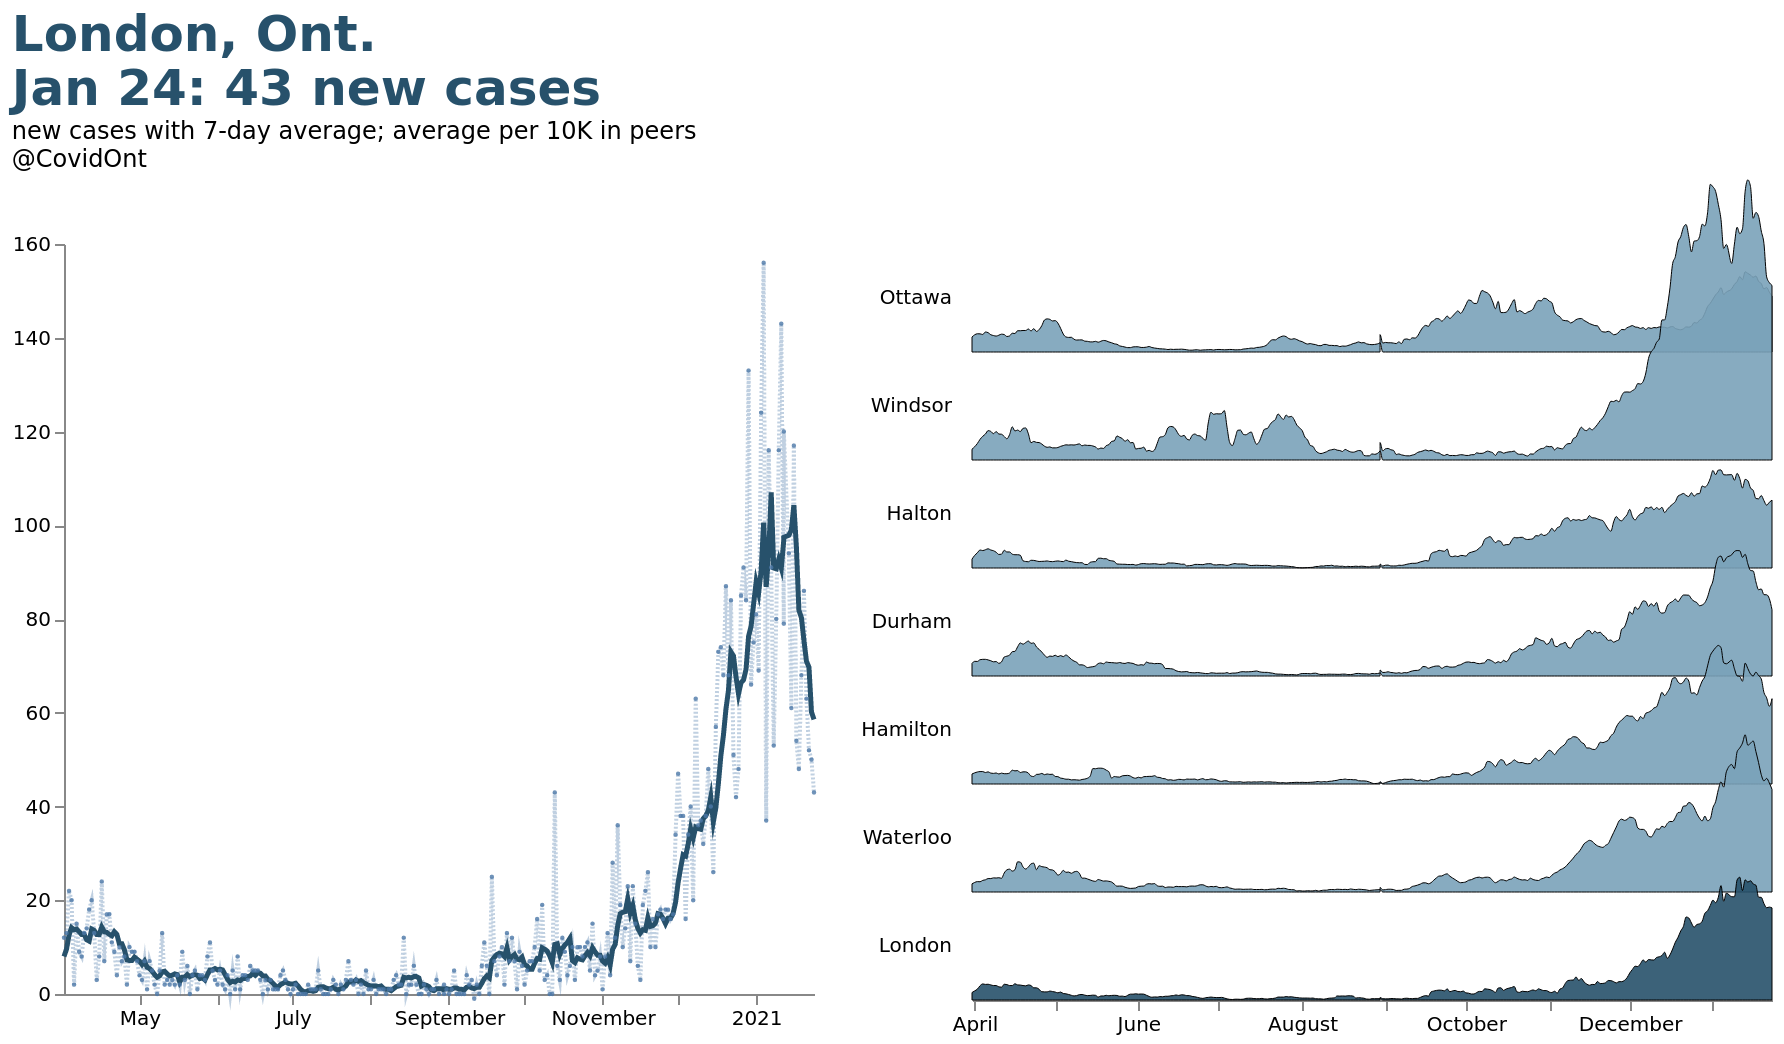
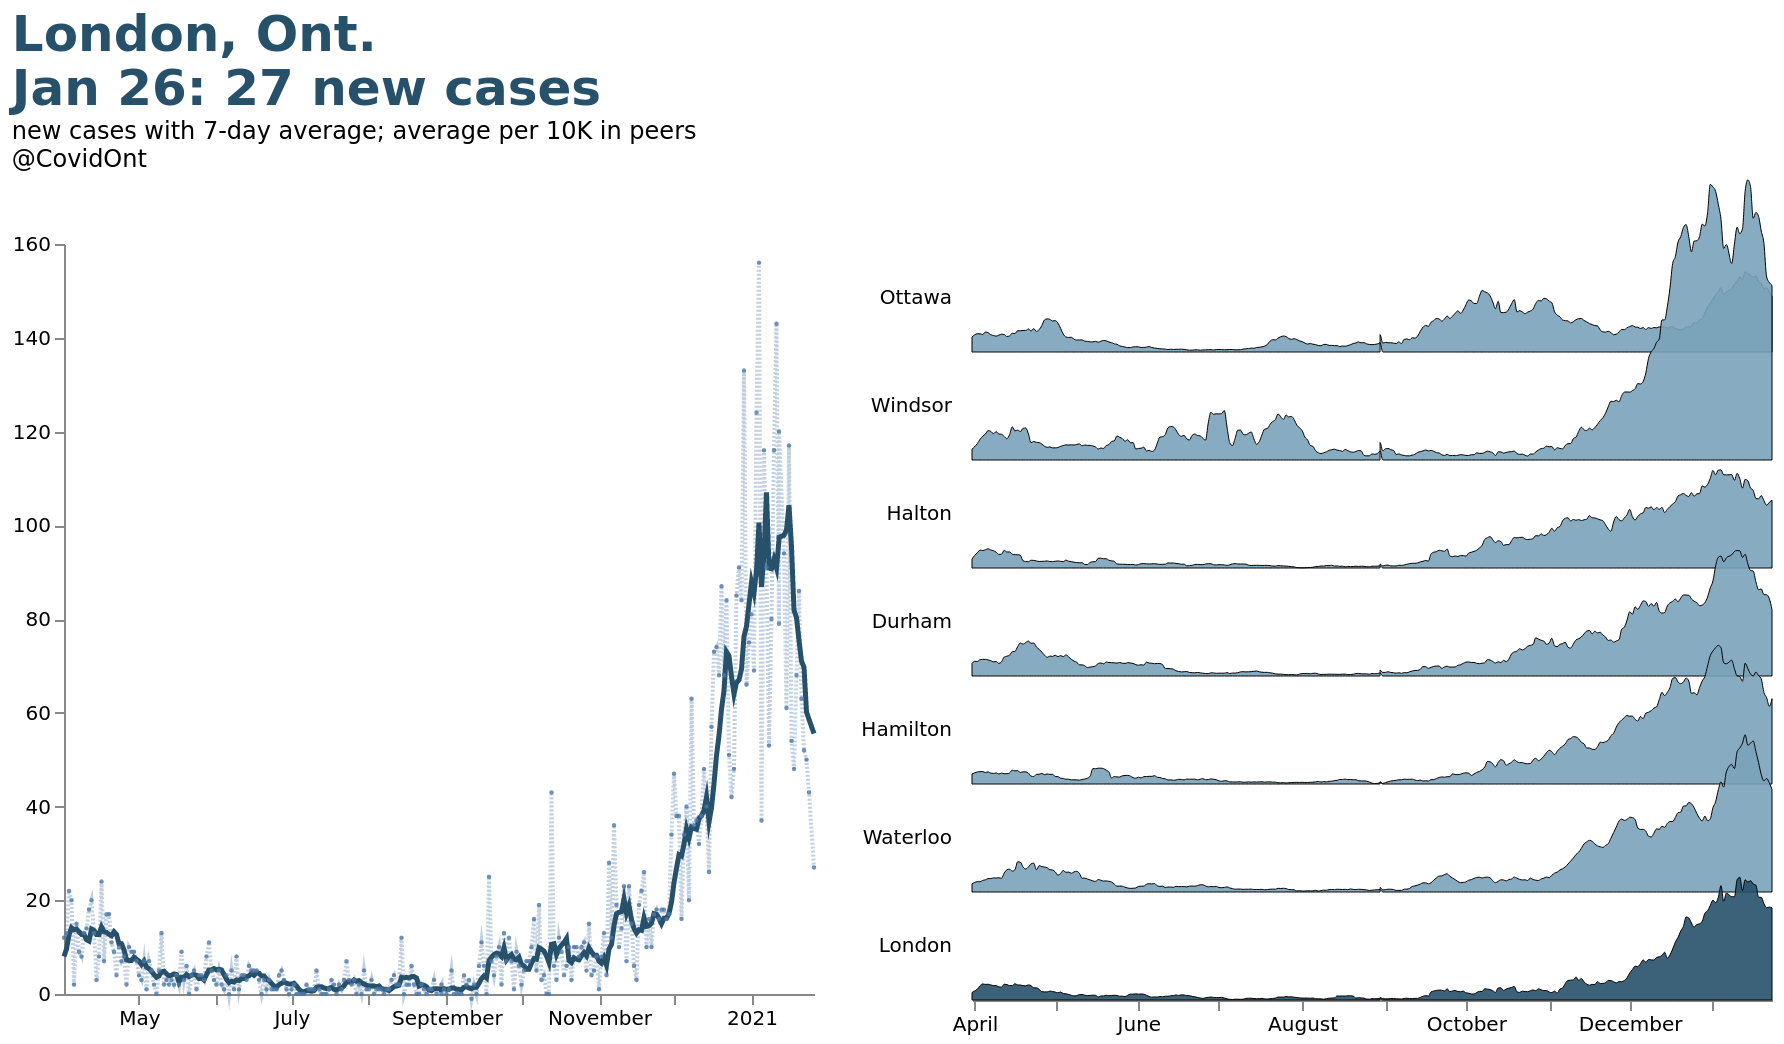
Data update

Changed region(s): [[0.0617, 0.2452, 0.4624, 0.9808], [0.0925, 0.0613, 0.185, 0.1226], [0.4008, 0.9502, 0.4316, 0.9808]]

diff --git a/london_scrape.py b/london_scrape.py
@@ -87,10 +87,7 @@ def scrape():
 with open('./data/paths.json') as file:
     paths = json.load(file)
 
-# today = datetime.today()
-# yesterday = today - timedelta(days = 1)
-# today = today.strftime('%Y-%m-%d')
-# yesterday = yesterday.strftime('%m-%d')
-
-today = '2021-01-24'
-yesterday = '2021-01-23'
+today = datetime.today()
+yesterday = today - timedelta(days = 1)
+today = today.strftime('%Y-%m-%d')
+yesterday = yesterday.strftime('%m-%d')
